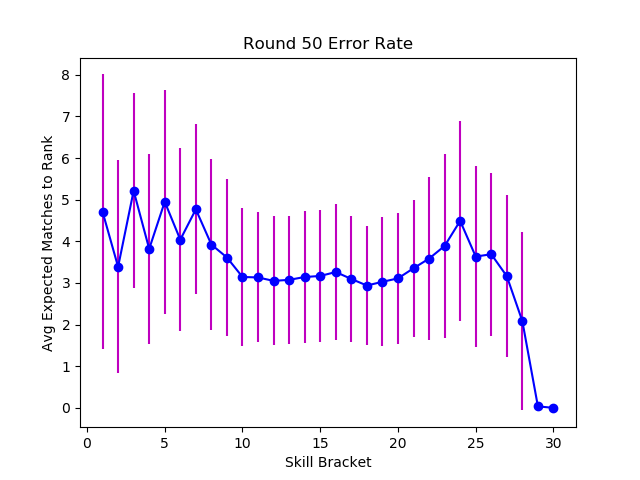
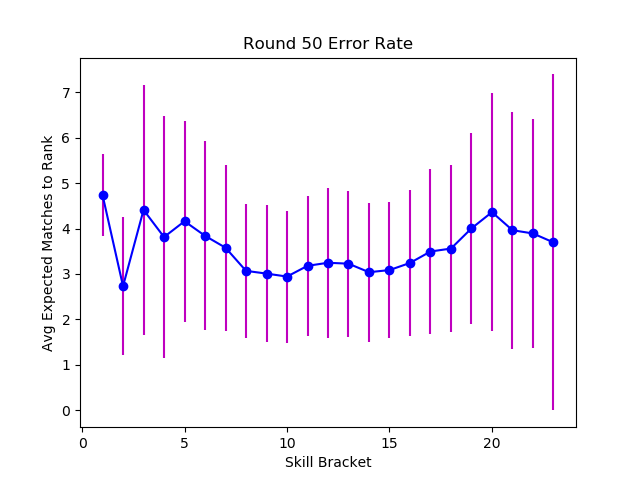
updating new post

diff --git a/Eloschatology.html b/Eloschatology.html
@@ -47,7 +47,7 @@
 <span class="kwd2">import</span> EloSim <span class="kwd2">as</span> e
 <span class="cmt"># generate players with a randomized true-skill distribution</span>
 players = e.initplayers()
-<span class="cmt"># Have players match against each other to estimate rank. Because all players are initialized with the same estimated Elo, we shouldn't match only with skill-brackets</span>
+<span class="cmt"># Have players match against each other to estimate rank. Because all players are initialized with the same estimated Elo, we should match freely without skill-brackets</span>
 playtournament(players, <span class="arg">team_size</span>=1, <span class="arg">uncertainty</span>=32, <span class="arg">learning_rate</span>=1.0, <span class="arg">rounds</span>=20, <span class="arg">usebrackets</span>=False)
                         </code></pre>
                     </div>
@@ -67,7 +67,7 @@ playtournament(players, <span class="arg">team_size</span>=1, <span class="arg">
 
                 <div id="text-block">
                     <p>
-                        With a rough estimate of player skills, we can now start making educated matches, where players of similarly estimated skill can face each-other. We will bucket players into 23 skill brackets (as is common in most chess tournaments), allowing for some play outside the brackets. To measure our prediction accuracy, we will look at the overall skill spread, and at the number of matches it would take to move players from their estimated ranking to their true ranking.
+                        With a rough estimate of player skills, we can now start making educated matches, where players of similarly estimated skill can face each other. We will bucket players into 23 skill brackets (as is common in most chess tournaments), allowing for some play outside the brackets. To measure our prediction accuracy, we will look at the overall skill spread, and at the number of matches it would take to move players from their estimated ranking to their true ranking.
                     </p>
                 </div>
                     
